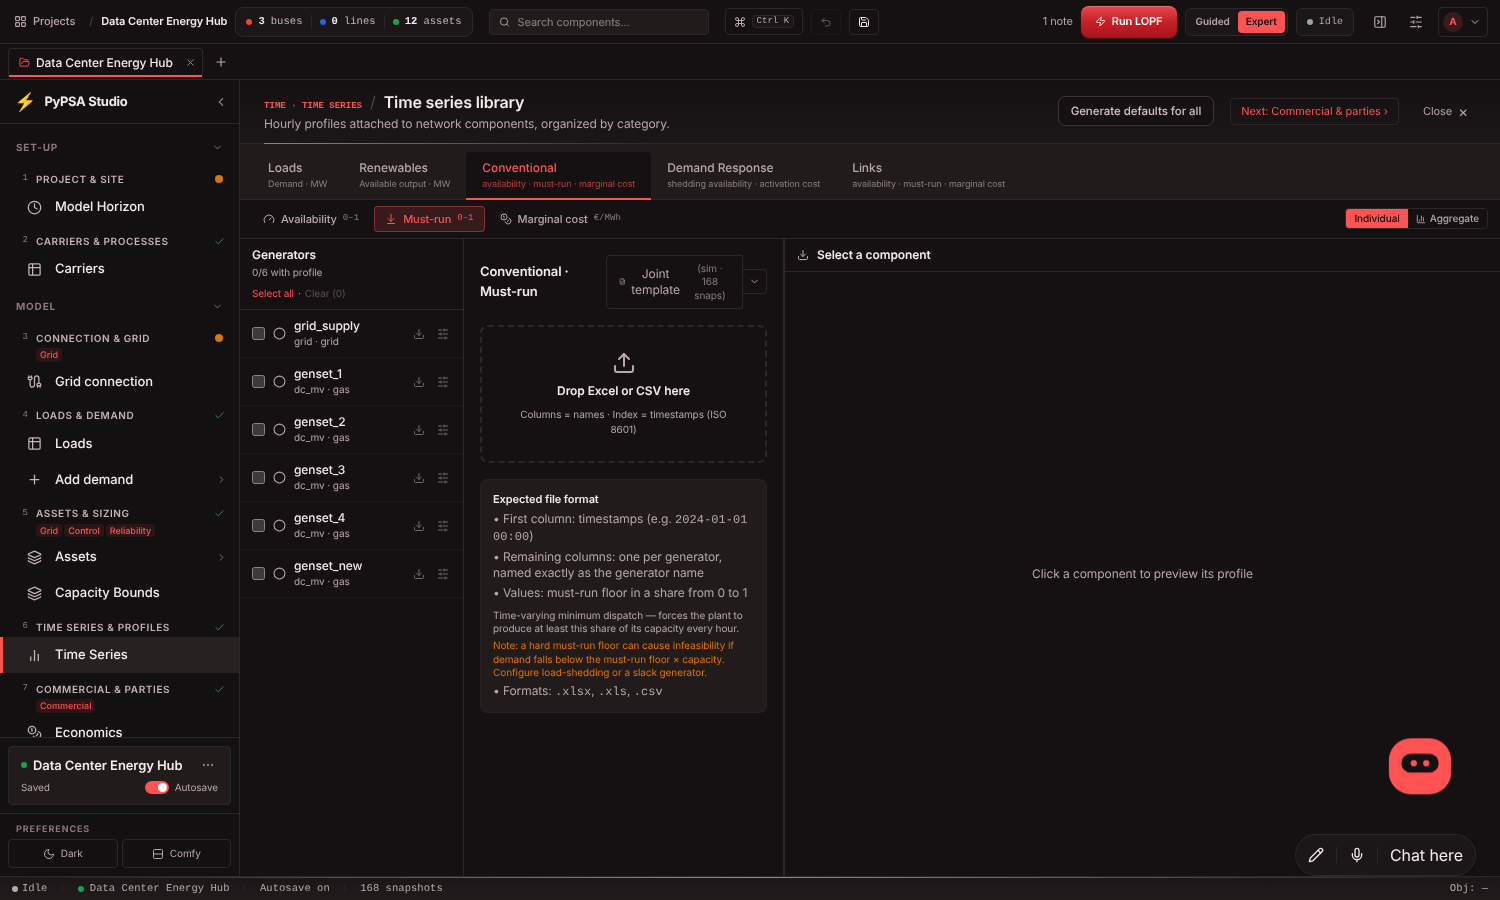
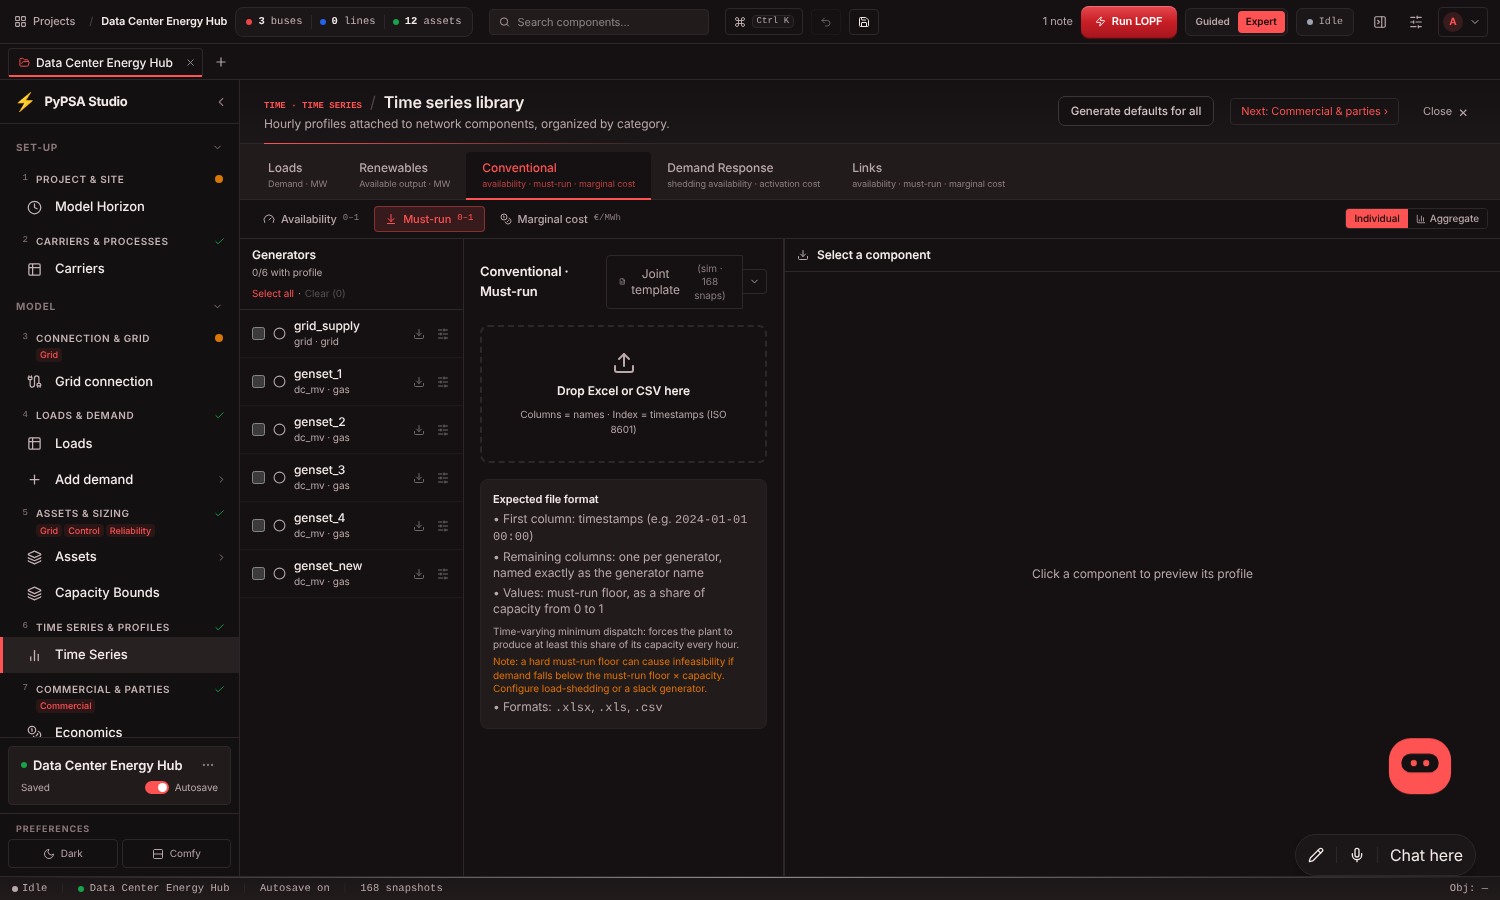
Time Series wording: share of capacity, colons, clear-profile hint
Claude-Session: https://claude.ai/code/session_01G7qCuiqwhk5ouRf7iMmKYp

Changed region(s): [[0.3067, 0.6533, 0.4907, 0.8089]]

diff --git a/pypsa-gui/frontend/src/pages/TimeSeriesManager.tsx b/pypsa-gui/frontend/src/pages/TimeSeriesManager.tsx
@@ -95,9 +95,9 @@ const CONV_ATTRS: ConvAttrConfig[] = [
   { id: 'p_max_pu',      label: 'Availability', Icon: Gauge, unit: 'pu',
     description: 'Time-varying upper bound on dispatch (e.g. nuclear refuelling, coal outages, hydro derating).' },
   { id: 'p_min_pu',      label: 'Must-run',     Icon: ArrowDownToLine, unit: 'pu',
-    description: 'Time-varying minimum dispatch — forces the plant to produce at least this share of its capacity every hour.' },
+    description: 'Time-varying minimum dispatch: forces the plant to produce at least this share of its capacity every hour.' },
   { id: 'marginal_cost', label: 'Marginal cost', Icon: Coins, unit: '€/MWh',
-    description: 'Hourly dispatch cost (€/MWh). Overrides the static price per hour — fuel-price traces, market scenarios. Cleared via uploading a profile of all-NaN cells.' },
+    description: 'Hourly dispatch cost (€/MWh). Overrides the static price per hour: fuel-price traces, market scenarios. To clear it, upload a profile with empty cells.' },
 ]
 
 // Demand-Response sub-attributes. PyPSA-Eur models DR as a Generator that
@@ -2156,8 +2156,8 @@ export default function TimeSeriesManager() {
             ) : activeTab === 'links' ? (
               <>
                 <p>• Remaining columns: one per link, named exactly as the link name</p>
-                <p>• Values: {fieldLabel(activeAttrCfg.id)}{' '}in{' '}
-                  {activeAttrCfg.unit === 'pu' ? 'a share from 0 to 1' : <span className="font-mono">{activeAttrCfg.unit}</span>}</p>
+                <p>• Values: {fieldLabel(activeAttrCfg.id)}
+                  {activeAttrCfg.unit === 'pu' ? ', as a share of capacity from 0 to 1' : <>{' '}in <span className="font-mono">{activeAttrCfg.unit}</span></>}</p>
                 <p className="pt-1 text-[10px]">{activeAttrCfg.description}</p>
                 {linkAttr === 'p_min_pu' && (
                   <p className="text-[10px] text-amber-600">
@@ -2170,15 +2170,15 @@ export default function TimeSeriesManager() {
             ) : activeTab === 'dr' ? (
               <>
                 <p>• Remaining columns: one per DR generator, named exactly as the generator name</p>
-                <p>• Values: {fieldLabel(activeAttrCfg.id)}{' '}in{' '}
-                  {activeAttrCfg.unit === 'pu' ? 'a share from 0 to 1' : <span className="font-mono">{activeAttrCfg.unit}</span>}</p>
+                <p>• Values: {fieldLabel(activeAttrCfg.id)}
+                  {activeAttrCfg.unit === 'pu' ? ', as a share of capacity from 0 to 1' : <>{' '}in <span className="font-mono">{activeAttrCfg.unit}</span></>}</p>
                 <p className="pt-1 text-[10px]">{activeAttrCfg.description}</p>
               </>
             ) : activeTab === 'conventional' ? (
               <>
                 <p>• Remaining columns: one per generator, named exactly as the generator name</p>
-                <p>• Values: {fieldLabel(activeAttrCfg.id)}{' '}in{' '}
-                  {activeAttrCfg.unit === 'pu' ? 'a share from 0 to 1' : <span className="font-mono">{activeAttrCfg.unit}</span>}</p>
+                <p>• Values: {fieldLabel(activeAttrCfg.id)}
+                  {activeAttrCfg.unit === 'pu' ? ', as a share of capacity from 0 to 1' : <>{' '}in <span className="font-mono">{activeAttrCfg.unit}</span></>}</p>
                 <p className="pt-1 text-[10px]">{activeAttrCfg.description}</p>
                 {convAttr === 'p_min_pu' && (
                   <p className="text-[10px] text-amber-600">
